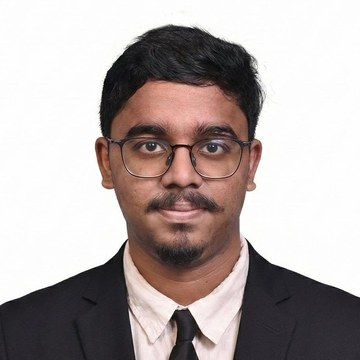
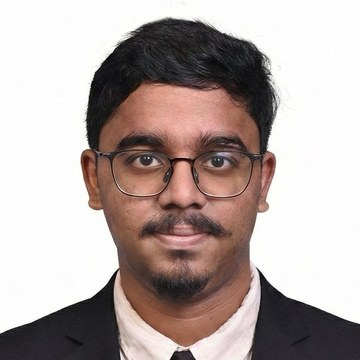
Tighten headshot crop so the face reads at small size
Claude-Session: https://claude.ai/code/session_01Hobip9GGirQNcJXtQG8S85

diff --git a/js/profile.js b/js/profile.js
@@ -41,7 +41,7 @@
     }).join('');
     var ed = (d.education || [])[0];
     el.innerHTML =
-      '<div class="face"><img src="' + base + 'images/trevor-avatar.jpg?v=3" alt="Trevor D\'Costa" width="112" height="112"><div><b>Trevor D\'Costa</b><span>Engineering, finance and product. Based in Mumbai.</span></div></div>' +
+      '<div class="face"><img src="' + base + 'images/trevor-avatar.jpg?v=4" alt="Trevor D\'Costa" width="112" height="112"><div><b>Trevor D\'Costa</b><span>Engineering, finance and product. Based in Mumbai.</span></div></div>' +
       '<h2>At a glance</h2><dl>' +
       '<div><dt>Status</dt><dd><span class="live">Available ' + esc(d.availability.split('·')[0].trim().toLowerCase()) + '</span><small>' + esc((d.availability.split('·')[1] || '').trim()) + '</small></dd></div>' +
       '<div><dt>Looking for</dt><dd>' + esc(d.looking_for) + '<small>' + esc(d.work_mode) + '</small></dd></div>' +

diff --git a/index.html b/index.html
@@ -172,6 +172,6 @@
   <footer><span>Trevor D'Costa · Mumbai</span><a href="#">Back to top</a></footer>
 </div>
 <script src="js/site.js?v=3"></script>
-<script src="js/profile.js?v=3"></script>
+<script src="js/profile.js?v=4"></script>
 </body>
 </html>
